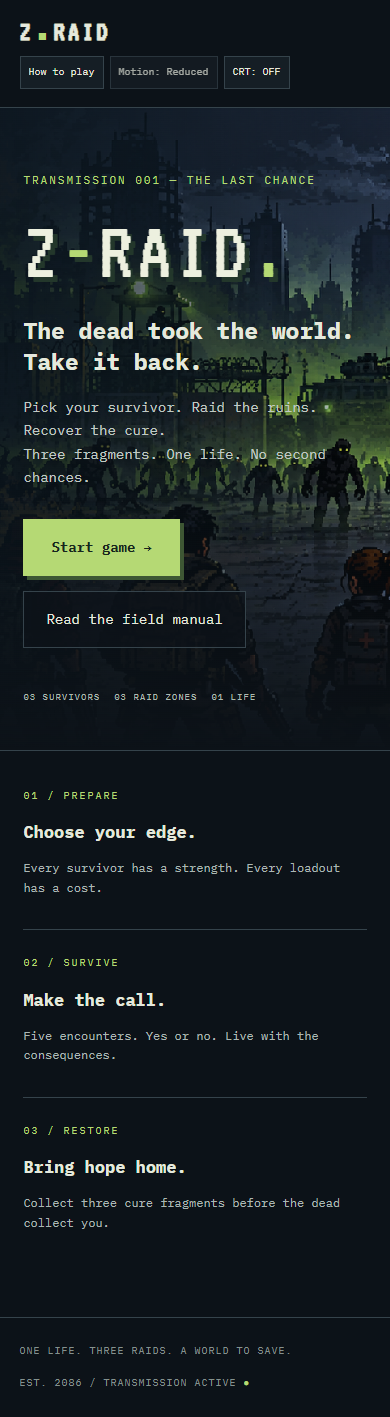
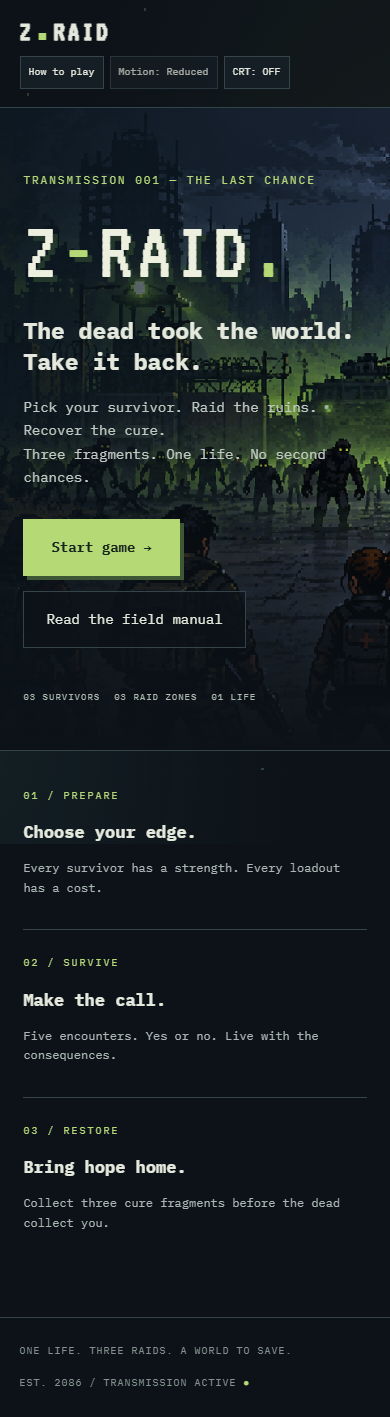
Make raid decisions build pursuit and add ambient pixel motion

diff --git a/game.js b/game.js
@@ -2,6 +2,15 @@
   'use strict';
   const C=ZContent,R=ZRules,app=document.querySelector('#app');let state=R.fresh();
   const stats=['combat','stealth','scavenging'];
+  const pursuitHint=choice=>choice.noise>0?'Loud route — draws pursuit':choice.noise<0?'Quiet route — breaks the trail':'Steady route — holds pursuit';
+  // Deterministic pixel motes stay outside the screen renderer and never consume
+  // gameplay RNG. Only transforms and opacity animate, keeping mobile cost low.
+  const ambient=document.querySelector('#ambient');
+  for(let i=0;i<22;i++){
+    const mote=document.createElement('span');mote.className='mote';
+    mote.style.cssText=`--x:${(i*43+7)%100}%;--y:${(i*29+11)%100}%;--duration:${18+i%7*3}s;--delay:-${i*2.7}s`;
+    ambient.appendChild(mote);
+  }
   // Original SVG pixel sprites use integer rectangles, no external asset requests.
   function art(id,cls='') {
     let p='',color='#b5d974';const rect=(x,y,w,h,c)=>p+=`<rect x="${x}" y="${y}" width="${w}" height="${h}" fill="${c}"/>`;
@@ -23,16 +32,16 @@
   const label=s=>s[0].toUpperCase()+s.slice(1);
   const btn=(text,action,cls='primary')=>`<button class="${cls}" data-action="${action}">${text}</button>`;
   const progress=()=>`<div class="fragments">${[1,2,3].map(n=>`<span class="${state.completed>=n?'filled':''}">${art('fragment')}<small>0${n}</small></span>`).join('')}</div>`;
-  function hud(){const c=R.item('characters',state.character);return `<div class="hud"><div>${art(c.id)}<div><b>${c.name}</b><span>HEALTH ${state.hp} / ${c.health}</span><meter min="0" max="${c.health}" value="${state.hp}" aria-label="Health"></meter></div></div><div><span>CURE FORMULA</span><b>${state.completed} / 3 fragments</b></div><div><span>RAID ${state.completed+1} / 3</span><b>${['Rising threat','High threat','Critical threat'][Math.min(2,state.completed)]}</b></div><div><span>SUPPLIES</span><b>${state.supplies}</b></div></div>`;}
+  function hud(){const c=R.item('characters',state.character);return `<div class="hud"><div>${art(c.id)}<div><b>${c.name}</b><span>HEALTH ${state.hp} / ${c.health}</span><meter min="0" max="${c.health}" value="${state.hp}" aria-label="Health"></meter></div></div><div><span>CURE FORMULA</span><b>${state.completed} / 3 fragments</b></div><div><span>RAID ${state.completed+1} / 3</span><b>${['Rising threat','High threat','Critical threat'][Math.min(2,state.completed)]}</b></div><div><span>SUPPLIES</span><b>${state.supplies}</b></div><div class="pursuit-tracker"><span>PURSUIT</span><b>${state.pressure<=1?'Quiet':state.pressure<=4?'Stirring':'Hunted'} · ${state.pressure} / 8</b></div></div>`;}
   function card(x,type,selected){return `<button class="choice ${selected===x.id?'selected':''}" data-choice="${type}" data-id="${x.id}" aria-pressed="${selected===x.id}">${art(x.id)}<div><small>${x.role||x.label||`TIER ${state.tier+1}`}</small><h3>${x.name}</h3><p>${x.description}</p>${x.health?`<div class="tags">${x.health} HP · C ${x.combat} / S ${x.stealth} / SC ${x.scavenging}</div>`:x.bonuses?`<div class="tags">${stats.filter(s=>x.bonuses[s]||x.specialty===s&&state.tier).map(s=>{const v=(x.bonuses[s]||0)+(x.specialty===s?state.tier:0);return `${label(s)} ${v>=0?'+':''}${v}`;}).join(' · ')}</div>`:`<div class="tags">Hazards: C −${x.hazards.combat}% / S −${x.hazards.stealth}% / SC −${x.hazards.scavenging}%</div>`}</div><span class="selector">${selected===x.id?'✓':'+'}</span></button>`;}
   function render(){
     let html='';const s=state;
     if(s.phase==='title')html=`<section class="hero"><div class="hero-shade"></div><div class="hero-copy"><span class="eyebrow">TRANSMISSION 001 — THE LAST CHANCE</span><h1>Z<span>-</span>RAID<span class="dot">.</span></h1><h2>The dead took the world.<br>Take it back.</h2><p>Pick your survivor. Raid the ruins. Recover the cure.<br>Three fragments. One life. No second chances.</p><div class="actions">${btn('Start game →','new')}${btn('Read the field manual','help','secondary')}</div><div class="hero-facts"><span>03 SURVIVORS</span><span>03 RAID ZONES</span><span>01 LIFE</span></div></div><div class="hero-note"><span class="live">● SIGNAL DETECTED</span><p>“Do you think you can save the world?”</p></div></section><div class="intro-grid"><article><small>01 / PREPARE</small><h3>Choose your edge.</h3><p>Every survivor has a strength. Every loadout has a cost.</p></article><article><small>02 / SURVIVE</small><h3>Make the call.</h3><p>Five encounters. Yes or no. Live with the consequences.</p></article><article><small>03 / RESTORE</small><h3>Bring hope home.</h3><p>Collect three cure fragments before the dead collect you.</p></article></div>`;
     else if(s.phase==='characters')html=`<section class="page"><span class="eyebrow">01 / YOUR LAST SURVIVOR</span><h1>Who goes into the dark?</h1><p class="lead">This choice stays with you for the entire run.</p><div class="character-grid">${C.characters.map(c=>card(c,'character','')).join('')}</div><div class="notice">Combat: fight & breach · Stealth: hide & navigate · Scavenging: search & repair</div></section>`;
-    else if(s.phase==='prepare')html=`<section class="page">${hud()}<span class="eyebrow">PREPARATION / RAID ${s.completed+1}</span><h1>Gear up. Get out. Get back.</h1><p class="lead">Choose your route and the tools that might keep you alive.</p><h2><span class="number">01</span> Raid location</h2><div class="location-grid">${C.locations.map(l=>card(l,'location',s.location)).join('')}</div><div class="equipment-grid"><section><h2><span class="number">02</span> Weapon</h2>${C.weapons.map(w=>card(w,'weapon',s.weapon)).join('')}</section><section><h2><span class="number">03</span> Gear</h2>${C.gear.map(g=>card(g,'gear',s.gear)).join('')}</section></div><div class="launch"><div><span class="eyebrow">EFFECTIVE CHECK STATS</span><p>${stats.map(t=>`${label(t)} <b>${R.item('characters',s.character)[t]+R.bonuses(s,t)}</b>`).join(' &nbsp; / &nbsp; ')}</p><small>Tier ${s.tier+1} equipment · ${s.completed*9}% difficulty penalty · health persists</small></div>${btn('Begin raid →','raid')}</div></section>`;
+    else if(s.phase==='prepare')html=`<section class="page">${hud()}<span class="eyebrow">PREPARATION / RAID ${s.completed+1}</span><h1>Gear up. Get out. Get back.</h1><p class="lead">Choose your route and the tools that might keep you alive.</p><h2><span class="number">01</span> Raid location</h2><div class="location-grid">${C.locations.map(l=>card(l,'location',s.location)).join('')}</div><div class="equipment-grid"><section><h2><span class="number">02</span> Weapon</h2>${C.weapons.map(w=>card(w,'weapon',s.weapon)).join('')}</section><section><h2><span class="number">03</span> Gear</h2>${C.gear.map(g=>card(g,'gear',s.gear)).join('')}</section></div><div class="launch"><div><span class="eyebrow">EFFECTIVE CHECK STATS</span><p>${stats.map(t=>`${label(t)} <b>${R.item('characters',s.character)[t]+R.bonuses(s,t)}</b>`).join(' &nbsp; / &nbsp; ')}</p><small>Tier ${s.tier+1} equipment · ${s.completed*10}% difficulty penalty · health persists</small></div>${btn('Begin raid →','raid')}</div></section>`;
     else if(['raid','outcome'].includes(s.phase)){
-      const l=R.item('locations',s.location),e=s.encounters[s.index];html=`<section class="page">${hud()}<div class="raid-layout"><aside class="raid-sidebar">${art(l.id,'scene')}<span class="eyebrow">${l.label}</span><h2>${l.name}</h2><p>${l.description}</p><hr><small>YOUR LOADOUT</small><p>${R.item('weapons',s.weapon).name}<br>${R.item('gear',s.gear).name}<br>Tier ${s.tier+1}</p><hr><small>RAID PROGRESS</small><div class="steps">${[0,1,2,3,4].map(i=>`<span class="${i<=s.index?'active':''}">${i+1}</span>`).join('')}</div></aside><article class="encounter"><span class="eyebrow">ENCOUNTER ${s.index+1} / 5 — STAY ALIVE</span>${art('zombie','enemy')}<h1>${e.question}</h1>${s.phase==='raid'?`<p class="lead">Make your call. Both routes carry risk.</p><div class="decision-grid">${['yes','no'].map(a=>{const x=e[a];return `<button class="decision" data-action="${a}"><strong>${label(a)} <span>→</span></strong><b>${x.action}</b><small>Success: +${x.supplies+(R.item('gear',s.gear).supplies||0)} supplies${x.heal||R.item('gear',s.gear).healing?`, up to +${x.heal+(R.item('gear',s.gear).healing||0)+(R.item('gear',s.gear).healing?s.tier:0)} HP`:''}<br>Failure: ${Math.max(1,x.damage+s.completed*4-(R.item('gear',s.gear).armor||0)-(R.item('gear',s.gear).armor?s.tier:0))} damage</small></button>`;}).join('')}</div><p class="odds-note">Trust your survivor and your gear. Neither route guarantees survival.</p>`:`<div class="outcome ${s.last.success?'good':'bad'}" role="status"><span class="eyebrow">${s.last.success?'✓ CHECK SUCCEEDED':'✕ CHECK FAILED'}</span><h2>${s.last.action}</h2><p>${s.last.success?'You secure the route and recover useful supplies.':'The dead close in. You escape, but the mistake costs you.'}</p><p><b>${s.last.damage?`−${s.last.damage} health`:`+${s.last.supplies} supplies · +${s.last.healing} health`}</b></p></div>${btn(s.index===4?'Return to camp →':'Continue →','next')}`}</article></div></section>`;
-    } else if(s.phase==='summary')html=`<section class="result page">${art('fragment','result-art')}<span class="eyebrow">TRANSMISSION RECEIVED / RAID COMPLETE</span><h1>You made it back.</h1><p class="lead">One more piece of the cure. One less reason to give up.</p>${progress()}<div class="result-panel"><p><b>${s.completed} / 3 cure fragments recovered</b></p><p>Camp recovery: +${s.recovery} health. ${s.usedSupplies} supplies consumed.<br>Current health: ${s.hp} / ${R.item('characters',s.character).health}.</p><p>All weapons and gear upgraded to tier ${s.tier+1}.<br>Each gains +1 in its specialty. Next raid: −${s.completed*9}% odds and +${s.completed*4} base damage.</p></div>${btn('Prepare next raid →','prepare')}</section>`;
+      const l=R.item('locations',s.location),e=s.encounters[s.index];html=`<section class="page">${hud()}<div class="raid-layout"><aside class="raid-sidebar">${art(l.id,'scene')}<span class="eyebrow">${l.label}</span><h2>${l.name}</h2><p>${l.description}</p><hr><small>YOUR LOADOUT</small><p>${R.item('weapons',s.weapon).name}<br>${R.item('gear',s.gear).name}<br>Tier ${s.tier+1}</p><hr><small>RAID PROGRESS</small><div class="steps">${[0,1,2,3,4].map(i=>`<span class="${i<=s.index?'active':''}">${i+1}</span>`).join('')}</div></aside><article class="encounter"><span class="eyebrow">ENCOUNTER ${s.index+1} / 5 — STAY ALIVE</span>${art('zombie','enemy')}<h1>${e.question}</h1>${s.phase==='raid'?`<p class="lead">Make your call. Both routes carry risk.</p><div class="decision-grid">${['yes','no'].map(a=>{const x=e[a];return `<button class="decision" data-action="${a}"><strong>${label(a)} <span>→</span></strong><b>${x.action}</b><span class="pursuit">${pursuitHint(x)}</span><small>Success: +${x.supplies+(R.item('gear',s.gear).supplies||0)} supplies${x.heal||R.item('gear',s.gear).healing?`, up to +${x.heal+(R.item('gear',s.gear).healing||0)+(R.item('gear',s.gear).healing?s.tier:0)} HP`:''}<br>Failure: ${R.damage(s,x)} damage</small></button>`;}).join('')}</div><p class="odds-note">Trust your survivor and your gear. Neither route guarantees survival.</p>`:`<div class="outcome ${s.last.success?'good':'bad'}" role="status"><span class="eyebrow">${s.last.success?'✓ CHECK SUCCEEDED':'✕ CHECK FAILED'}</span><h2>${s.last.action}</h2><p>${s.last.success?'You secure the route and recover useful supplies.':'The dead close in. You escape, but the mistake costs you.'}</p><p><b>${s.last.damage?`−${s.last.damage} health`:`+${s.last.supplies} supplies · +${s.last.healing} health`}</b></p><p>${s.last.noiseChange>0?'The noise draws infected closer.':s.last.noiseChange<0?'You lose part of the pursuing horde.':'The horde keeps its distance.'} Pursuit: ${s.pressure} / 8.</p></div>${btn(s.index===4?'Return to camp →':'Continue →','next')}`}</article></div></section>`;
+    } else if(s.phase==='summary')html=`<section class="result page">${art('fragment','result-art')}<span class="eyebrow">TRANSMISSION RECEIVED / RAID COMPLETE</span><h1>You made it back.</h1><p class="lead">One more piece of the cure. One less reason to give up.</p>${progress()}<div class="result-panel"><p><b>${s.completed} / 3 cure fragments recovered</b></p><p>Camp recovery: +${s.recovery} health. ${s.usedSupplies} supplies consumed.<br>Current health: ${s.hp} / ${R.item('characters',s.character).health}.</p><p>All weapons and gear upgraded to tier ${s.tier+1}.<br>Each gains +1 in its specialty. Next raid: greater danger and +${s.completed*5} base damage. Pursuit cleared at camp.</p></div>${btn('Prepare next raid →','prepare')}</section>`;
     else if(s.phase==='death')html=`<section class="result page death">${art('zombie','result-art')}<span class="eyebrow">SIGNAL LOST / SURVIVOR DOWN</span><h1>The dark won this time.</h1><p class="lead">${R.item('characters',s.deathProgress.character).name} fell on raid ${s.deathProgress.completed+1}, encounter ${s.deathProgress.encounter}.</p><div class="result-panel"><h2>${s.deathProgress.completed} / 3 fragments recovered</h2><p>Final check: ${s.last.action}. Took ${s.last.damage} damage.</p><p>Your cure fragments, equipment upgrades and raid progress are lost. A new survivor starts from zero.</p></div>${btn('New run →','new')}</section>`;
     else if(s.phase==='victory')html=`<section class="result page">${art('victory','result-art')}<span class="eyebrow">FORMULA COMPLETE / HOPE RESTORED</span><h1>The world gets another day.</h1><p class="lead">${R.item('characters',s.character).name} survived all fifteen encounters.<br>Three fragments. One cure. A future worth fighting for.</p>${progress()}<div class="result-panel"><h2>✓ Cure assembled</h2><p>The first batch leaves camp at dawn. Somewhere beyond the barricades, the world begins to heal.</p><p>Final health: ${s.hp}. All three raids completed.</p></div>${btn('Play again →','new')}</section>`;
     app.innerHTML=html;app.focus({preventScroll:true});

diff --git a/engine.js b/engine.js
@@ -2,23 +2,29 @@
 window.ZRules = (() => {
   const C = window.ZContent;
   const item = (type,id) => C[type].find(x=>x.id===id);
-  const fresh = () => ({character:null,location:'pharmacy',weapon:'bat',gear:'vest',hp:0,completed:0,tier:0,supplies:0,encounters:[],index:0,phase:'title',last:null});
+  const fresh = () => ({character:null,location:'pharmacy',weapon:'bat',gear:'vest',hp:0,completed:0,tier:0,supplies:0,pressure:0,encounters:[],index:0,phase:'title',last:null});
   function bonuses(s,stat) { return ['weapons','gear'].reduce((sum,type)=> { const it=item(type,type==='weapons'?s.weapon:s.gear); return sum+(it.bonuses[stat]||0)+(it.specialty===stat?s.tier:0); },0); }
-  // A stat point and equipment point each add five percentage points. Each later
-  // raid costs nine points; specialty upgrades counteract only part of that cost.
-  function chance(s,choice) { const c=item('characters',s.character),l=item('locations',s.location);return Math.max(10,Math.min(90,choice.base+c[choice.stat]*5+bonuses(s,choice.stat)*5+Math.min(3,s.supplies)-l.hazards[choice.stat]-s.completed*9)); }
+  // Four points per stat and five per equipment point; upgrades offset the
+  // ten-point raid penalty. Existing pursuit costs two points per level.
+  // These odds stay internal. Players see actions and qualitative consequences.
+  function chance(s,choice) { const c=item('characters',s.character),l=item('locations',s.location);return Math.max(10,Math.min(85,choice.base+c[choice.stat]*4+bonuses(s,choice.stat)*5+Math.min(2,s.supplies)-l.hazards[choice.stat]-s.completed*10-s.pressure*2-s.index)); }
+  function damage(s,choice) {const g=item('gear',s.gear);return Math.max(1,choice.damage+s.completed*5+Math.floor(s.pressure/2)-(g.armor||0)-(g.armor?s.tier:0));}
+  const recovery = s => 8+Math.min(6,s.supplies)*2;
   function selectCharacter(s,id) { if(s.phase!=='characters')return false; const c=item('characters',id);if(!c)return false;s.character=id;s.hp=c.health;s.phase='prepare';return true; }
-  function startRaid(s,rng=Math.random) {if(s.phase!=='prepare')return false;const pool=[...item('locations',s.location).encounters];for(let i=pool.length-1;i>0;i--){const j=Math.floor(rng()*(i+1));[pool[i],pool[j]]=[pool[j],pool[i]];}s.encounters=pool.slice(0,5);s.index=0;s.phase='raid';s.last=null;return true;}
+  function startRaid(s,rng=Math.random) {if(s.phase!=='prepare')return false;const pool=[...item('locations',s.location).encounters];for(let i=pool.length-1;i>0;i--){const j=Math.floor(rng()*(i+1));[pool[i],pool[j]]=[pool[j],pool[i]];}s.encounters=pool.slice(0,5);s.index=0;s.pressure=0;s.phase='raid';s.last=null;return true;}
   function resolve(s,answer,rng=Math.random) {
     if(s.phase!=='raid'||!['yes','no'].includes(answer))return null;
     const a=s.encounters[s.index][answer],odds=chance(s,a),roll=rng()*100,success=roll<odds,g=item('gear',s.gear),max=item('characters',s.character).health;
-    const damage=success?0:Math.max(1,a.damage+s.completed*4-(g.armor||0)-(g.armor?s.tier:0));
+    const injury=success?0:damage(s,a);
     const healing=success?Math.min(max-s.hp,a.heal+(g.healing||0)+(g.healing?s.tier:0)):0;
     const supplies=success?a.supplies+(g.supplies||0):0;
-    s.hp=Math.max(0,Math.min(max,s.hp-damage+healing));s.supplies+=supplies;
-    s.last={success,odds,roll,damage,healing,supplies,action:a.action};
+    s.hp=Math.max(0,Math.min(max,s.hp-injury+healing));s.supplies+=supplies;
+    const before=s.pressure;
+    // Quiet actions still help on a failure, but the mishap attracts one level.
+    s.pressure=Math.max(0,Math.min(8,s.pressure+(a.noise||0)+(success?0:1)));
+    s.last={success,odds,roll,damage:injury,healing,supplies,action:a.action,noiseChange:s.pressure-before};
     s.phase=s.hp===0?'death':'outcome';
-    if(s.phase==='death'){s.deathProgress={completed:s.completed,encounter:s.index+1,character:s.character};s.completed=0;s.tier=0;s.supplies=0;}
+    if(s.phase==='death'){s.deathProgress={completed:s.completed,encounter:s.index+1,character:s.character};s.completed=0;s.tier=0;s.supplies=0;s.pressure=0;}
     return s.last;
   }
   function next(s) {
@@ -26,8 +32,8 @@ window.ZRules = (() => {
     if(s.index<4){s.index++;s.phase='raid';return true;}
     // Only this transition grants fragments. Phase guards prevent duplicate rewards.
     s.completed++;s.tier=s.completed;
-    const max=item('characters',s.character).health,recovery=Math.min(max-s.hp,12+Math.min(10,s.supplies)*2);
-    s.hp+=recovery;s.recovery=recovery;s.usedSupplies=s.supplies;s.supplies=0;s.phase=s.completed===3?'victory':'summary';return true;
+    const max=item('characters',s.character).health,healed=Math.min(max-s.hp,recovery(s));
+    s.hp+=healed;s.recovery=healed;s.usedSupplies=s.supplies;s.supplies=0;s.pressure=0;s.phase=s.completed===3?'victory':'summary';return true;
   }
-  return {fresh,item,bonuses,chance,selectCharacter,startRaid,resolve,next};
+  return {fresh,item,bonuses,chance,damage,recovery,selectCharacter,startRaid,resolve,next};
 })();

diff --git a/index.html b/index.html
@@ -1,3 +1,3 @@
 <!doctype html>
 <html lang="en"><head><meta charset="utf-8"><meta name="viewport" content="width=device-width,initial-scale=1"><meta name="theme-color" content="#0c1218"><meta name="description" content="Z-Raid: three raids, one life, one chance to cure the world."><title>Z-Raid — One life. Three raids.</title><link rel="icon" type="image/svg+xml" href="assets/favicon.svg"><link rel="stylesheet" href="styles.css"></head>
-<body><header><a href="./" class="brand" aria-label="Z-Raid home">Z<span>■</span>RAID</a><div class="header-right"><span class="live">● OFFLINE SURVIVAL PROTOCOL</span><button id="help" class="small">How to play</button><button id="motion" class="small" aria-pressed="true" aria-label="Toggle menu motion">Motion: ON</button><button id="crt" class="small" aria-pressed="false">CRT: OFF</button></div></header><main id="app" tabindex="-1"></main><footer><span>ONE LIFE. THREE RAIDS. A WORLD TO SAVE.</span><span>EST. 2086 / TRANSMISSION ACTIVE <i>●</i></span></footer><dialog id="instructions"><button id="close-help" class="small">Close ×</button><h2>Survival field manual</h2><p>Choose a survivor for your entire run. Select a location, weapon and gear before every raid. Survive five Yes/No encounters to recover one cure fragment. Three fragments save the world.</p><p><b>Combat</b> helps you fight and force entry. <b>Stealth</b> helps you hide and navigate. <b>Scavenging</b> helps you recover supplies. Items modify these checks; drawbacks matter.</p><p>Encounter outcomes depend on your survivor, equipment, supplies, location hazards and raid difficulty. Checks are rolled behind the scenes. Stronger stats help, but never guarantee survival.</p><p>Supplies add morale and are consumed at camp: recover 12 health plus 2 per supply (maximum 10 supplies), capped at maximum health. Every successful raid upgrades all eight items by +1 in their specialty, while hazards grow faster. Health carries through encounters. Zero health ends your run immediately and clears progress.</p><p>Use Tab and Enter/Space, a mouse, or touch. Both Yes and No describe an action and have risks. CRT is optional. Runs are not saved when you close or reload.</p></dialog><script src="content.js"></script><script src="engine.js"></script><script src="game.js"></script></body></html>
+<body><div id="ambient" class="ambient" aria-hidden="true"></div><header><a href="./" class="brand" aria-label="Z-Raid home">Z<span>■</span>RAID</a><div class="header-right"><span class="live">● OFFLINE SURVIVAL PROTOCOL</span><button id="help" class="small">How to play</button><button id="motion" class="small" aria-pressed="true" aria-label="Toggle menu motion">Motion: ON</button><button id="crt" class="small" aria-pressed="false">CRT: OFF</button></div></header><main id="app" tabindex="-1"></main><footer><span>ONE LIFE. THREE RAIDS. A WORLD TO SAVE.</span><span>EST. 2086 / TRANSMISSION ACTIVE <i>●</i></span></footer><dialog id="instructions"><button id="close-help" class="small">Close ×</button><h2>Survival field manual</h2><p>Choose a survivor for your entire run. Select a location, weapon and gear before every raid. Survive five Yes/No encounters to recover one cure fragment. Three fragments save the world.</p><p><b>Combat</b> helps you fight and force entry. <b>Stealth</b> helps you hide and navigate. <b>Scavenging</b> helps you recover supplies. Items modify these checks; drawbacks matter.</p><p>Encounter outcomes depend on your survivor, equipment, supplies, location hazards and raid difficulty. Checks are rolled behind the scenes. Stronger stats help, but never guarantee survival. Loud routes raise pursuit even on success; quiet routes lower it. Failures also attract infected. Higher pursuit makes later encounters more dangerous. Pursuit clears at camp.</p><p>Supplies add morale and are consumed at camp: recover 8 health plus 2 per supply (maximum 6 supplies), capped at maximum health. Every successful raid upgrades all eight items by +1 in their specialty, while hazards grow faster. Health carries through encounters. Zero health ends your run immediately and clears progress.</p><p>Use Tab and Enter/Space, a mouse, or touch. Both Yes and No describe an action and have risks. CRT is optional. Runs are not saved when you close or reload.</p></dialog><script src="content.js"></script><script src="engine.js"></script><script src="game.js"></script></body></html>

diff --git a/styles.css b/styles.css
@@ -30,3 +30,19 @@ body.motion-off button,body.motion-off .intro-grid article{transition:none}
 button:disabled{cursor:default;opacity:.7}
 @media(max-width:650px){header{flex-wrap:wrap;gap:10px}.header-right{flex-wrap:wrap}.header-right .small{padding:7px 8px}}
 @media(prefers-reduced-motion:reduce){.hero{background-image:linear-gradient(90deg,#0b151de0,#0b151d36),url('assets/title.png')}.hero::after{display:none}}
+
+/* Ambient quarantine atmosphere on every screen, independent of CRT scanlines. */
+body{isolation:isolate}
+body>header,body>main,body>footer{position:relative;z-index:1}
+.ambient{position:fixed;inset:0;z-index:0;overflow:hidden;pointer-events:none;contain:strict}
+.ambient::before{content:'';position:absolute;inset:-20%;background:radial-gradient(ellipse at 12% 75%,#77c9c51b,transparent 45%),radial-gradient(ellipse at 88% 35%,#b5d97414,transparent 48%);opacity:.7}
+.ambient::after{content:'';position:absolute;inset:0;background:linear-gradient(#77c9c506 1px,transparent 1px),linear-gradient(90deg,#77c9c506 1px,transparent 1px);background-size:48px 48px;mask-image:linear-gradient(transparent,#000,transparent)}
+.mote{position:absolute;left:var(--x);top:var(--y);height:3px;width:2px;background:#8aae7c;opacity:.25;box-shadow:0 0 5px #b5d97428}
+.mote:nth-child(3n){height:2px;width:3px;background:#77c9c5}
+.hud{grid-template-columns:1.8fr 1.4fr 1.4fr .8fr 1.2fr}
+.pursuit{display:block;color:var(--green);font-size:10px;line-height:1.6}
+.pursuit-tracker b{color:#deaa67}
+@media(prefers-reduced-motion:no-preference){body:not(.motion-off) .ambient::before{animation:quarantine-fog 22s ease-in-out infinite}body:not(.motion-off) .mote{animation:pixel-drift var(--duration) linear var(--delay) infinite}}
+@keyframes quarantine-fog{0%,100%{transform:translate(-3%,2%);opacity:.5}50%{transform:translate(4%,-3%);opacity:.9}}
+@keyframes pixel-drift{0%{transform:translate(0,60px);opacity:0}15%{opacity:.45}75%{opacity:.35}100%{transform:translate(35px,-160px);opacity:0}}
+@media(max-width:950px){.hud{grid-template-columns:1fr 1fr}.pursuit-tracker{grid-column:1/-1}.mote:nth-child(even){display:none}}

diff --git a/content.js b/content.js
@@ -61,6 +61,14 @@ window.ZContent = (() => {
     {id:'metro',name:'Hollow Metro',label:'UNDERGROUND',description:'Dark tunnels, sleeping hordes and flooded tracks.',hazards:{combat:5,stealth:6,scavenging:1},color:'#77c9c5'},
     {id:'checkpoint',name:'Checkpoint 09',label:'QUARANTINE ZONE',description:'Armored infected, surveillance and military salvage.',hazards:{combat:6,stealth:2,scavenging:4},color:'#deaa67'}
   ];
-  locations.forEach(l => l.encounters = pools[l.id].map((r,i) => ({id:l.id+i,question:r[0],yes:{action:r[1],stat:r[2],base:r[5],damage:r[7]+10,supplies:2+(i%2),heal:i%3===0?4:0},no:{action:r[3],stat:r[4],base:r[6],damage:r[8]+10,supplies:1+(i%2),heal:i%3===1?5:0}})));
+  // Pursuit is a lasting consequence of each route, even when its check succeeds.
+  // Positive values attract infected; negative values shake them off. Neither
+  // Yes nor No always means loud or quiet: the actual action determines it.
+  const pursuit = {
+    pharmacy:[[3,-1],[2,-2],[3,-1],[0,1],[1,2],[3,0],[2,-2],[-1,1],[2,3],[3,-1]],
+    metro:[[-2,3],[3,1],[2,-1],[3,-2],[1,-1],[3,-2],[-1,1],[2,0],[3,-1],[-2,1]],
+    checkpoint:[[3,-2],[1,-1],[3,1],[-2,3],[2,3],[-2,1],[4,-2],[1,-1],[3,-2],[2,3]]
+  };
+  locations.forEach(l => l.encounters = pools[l.id].map((r,i) => ({id:l.id+i,question:r[0],yes:{action:r[1],stat:r[2],base:r[5],damage:r[7]+10,supplies:2+(i%2),heal:i%3===0?4:0,noise:pursuit[l.id][i][0]},no:{action:r[3],stat:r[4],base:r[6],damage:r[8]+10,supplies:1+(i%2),heal:i%3===1?5:0,noise:pursuit[l.id][i][1]}})));
   return {characters,weapons,gear,locations};
 })();

diff --git a/DEVELOPMENT.md b/DEVELOPMENT.md
@@ -11,13 +11,14 @@ Use mouse, touch, or Tab and Enter/Space. Start Game → choose one of three sur
 ## Rules and balance
 
 - Combat handles fighting and force; stealth handles concealment and navigation; scavenging handles searching and repairs.
-- Check odds = base + character stat × 5 + equipment bonus × 5 + min(3, supplies) − location hazard − completed raids × 9, clamped to 10–90%. A uniform random roll below those odds succeeds.
+- Internal check odds = base + character stat × 4 + equipment bonus × 5 + min(2, supplies) − location hazard − completed raids × 10 − pursuit × 2 − encounter index, clamped to 10–85%. A uniform random roll below those odds succeeds. Check odds and rolls are hidden from players.
 - Each location has 10 encounters. Fisher–Yates shuffle draws 5 without replacement per raid. Both responses use independent checks and rewards. No is never a guaranteed safe escape.
-- Failure costs the shown damage, plus 4 per completed raid, less vest armor. Successful checks award supplies and sometimes healing. Medical kits add healing; field packs add supplies. All health changes are capped. Zero health causes immediate death.
-- Camp restores 12 + 2 × min(10, supplies) health, capped at character maximum, and consumes all supplies. Supplies also add up to 3 percentage points of morale during the raid.
+- Every route has an authored pursuit consequence, from −2 to +4. This applies on success as well as failure; a failed check adds one extra pursuit. Pursuit stays between 0 and 8. Loud and quiet actions appear under both Yes and No, so neither answer is always the quiet route. Players see route hints, the pursuit tracker and the result. Later decisions inherit the consequences of earlier ones.
+- Failure costs the displayed damage: encounter base + 5 per completed raid + floor(pursuit / 2) − vest armor (including upgrades). Successful checks award supplies and sometimes healing. Medical kits add healing; field packs add supplies. All health changes are capped. Zero health causes immediate death.
+- Camp restores 8 + 2 × min(6, supplies) health (maximum 20), capped at character maximum, consumes all supplies and clears pursuit. Supplies add up to 2 percentage points of morale during the raid. Pursuit also starts at zero each raid.
 - Every success upgrades the existing four weapons and four gear items by +1 in their specialty. Vest armor and kit healing also gain +1. No new item types are added. Difficulty still rises; upgrades are most useful for specialized checks.
 - Death clears fragments, upgrade tier and supplies immediately. New Run recreates the whole run state, including selections, health and encounter progress. Reloading also starts fresh; there is no saved run.
-- The odds do not guarantee survival. A plausible strategy is to pair complementary equipment, consider both failure damage and odds, and collect supplies for camp recovery.
+- No strategy guarantees survival. Pair complementary equipment, consider the action and its failure damage, and balance supply collection against attracting the horde. Even a successful loud route can make subsequent encounters harder.
 
 ## Static hosting / Cloudflare Pages
 
@@ -34,11 +35,15 @@ Upload `index.html`, `styles.css`, `content.js`, `engine.js`, `game.js`, and `as
 - `assets/title-loop.gif`: 48-frame, six-second infinite loop of the title art with animated ground fog, rain/ash and slowly pulsing lights (960 × 384, about 1.9 MB). `tools/animate_hero.py` reproduces it with Pillow. No runtime dependency is required.
 - The title menu also has gentle ambient glow, signal breathing, and hover/focus movement. The header's Motion toggle persists your preference locally. Turning it off or enabling reduced motion loads the original still PNG and disables these animations. CRT remains a separate setting.
 - `motion-check.cjs`: development browser verification for animation, hover, motion controls and mobile layout.
-- `verify.cjs`: dependency-free rule verification and seeded balance simulation. Run `node verify.cjs`.
+- `verify.cjs`: dependency-free rule verification. Run `node verify.cjs`.
+- `balance.cjs`: compare fixed Yes, fixed No, random and informed choices across all 48 loadouts and rotating locations. Run `node balance.cjs 600` for 115,200 seeded runs. The informed policy sees internal odds and estimates immediate health, rewards and future pursuit cost; it is an idealized benchmark, not a prediction of human win rates.
+- A fixed ambient layer adds drifting pixel motes, slow teal/green fog and a faint quarantine grid behind every screen. It does not use gameplay RNG, intercept input, or depend on CRT. Motion OFF and reduced motion disable its animations.
 
 ## Verification results
 
-All 144 character/location/weapon/gear combinations passed rule checks, including probability bounds, unique draws, upgrades, fragments only on living raid completion, rising difficulty, immediate death, reset, third-raid victory, and duplicate-action guards. A seeded 16,800-run simulation with informed decisions and rotating locations won about 76% overall (54–93% across loadouts). The initial 97% result prompted an increase in failure damage. This is an initial balance estimate, not a substitute for player feedback.
+All 144 character/location/weapon/gear combinations passed rule checks, including probability bounds at different pursuit levels, unique draws, upgrades, fragments only on living raid completion, rising difficulty, immediate death, reset, third-raid victory, and duplicate-action guards. Targeted checks verify that successful loud actions increase pursuit and worsen later checks/damage, quiet actions reduce it, pressure is capped and resets, camp recovery caps at 20, and both answers include loud and quiet routes.
+
+The previous balance won about 52% with all-Yes and 76% with informed choices. After pursuit, reduced recovery and tougher checks, a 115,200-run comparison produced average win rates of **8.3% all-Yes, 15.4% all-No, 10.6% random, and 31.8% informed**. Informed results ranged from 10–55% across loadouts; every loadout remained able to win. Fixed-answer strategies can still win through luck; adapting choices is substantially more effective. These are simulation estimates, not a substitute for player feedback.
 
 Headless Edge verified the actual desktop and 390px mobile interface: loadout changes, all 15 encounter transitions, victory, death, fresh run, dialog and keyboard controls, no horizontal overflow and no JavaScript errors. Preview screenshots are in `assets/preview-*.png`. `browser-check.cjs` is the development browser check and uses this workstation's bundled Playwright; for another machine, replace its require path with an installed Playwright package. The game itself has no package dependency.
 

diff --git a/README.md b/README.md
@@ -25,13 +25,15 @@ An 8-bit, text-based survival game where every Yes or No could be your last.
 **Four weapons. Four gear items. Thirty encounters. One life.**<br>
 Collect supplies, recover at camp, and adapt your loadout between raids. Die, and the run is over.
 
+Loud actions attract a pursuing horde even when they succeed. Quiet routes can shake it off. Pursuit carries into later encounters, making checks tougher and injuries worse. Watch the pursuit tracker and weigh your supplies against the noise; neither Yes nor No is always the quiet option. Camp recovery is limited to 20 health.
+
 The stat checks, success percentages, and random rolls stay hidden; the probability system still runs behind the scenes.
 
 ### 🕹 Before you head out
 
 - Play with mouse, touch, or **Tab + Enter/Space**.
 - Combat, stealth, scavenging, and equipment shape your chances. Good odds still aren't a guarantee.
-- The menu has a looping animated backdrop and subtle hover effects. Toggle **Motion** to pause animation, **CRT** for scanlines, or open **How to play** for the field manual. Reduced-motion settings use a still backdrop.
+- The menu has a looping animated backdrop and subtle hover effects. Pixel motes and drifting quarantine fog animate behind every game screen. Toggle **Motion** to pause animation, **CRT** for scanlines, or open **How to play** for the field manual. Reduced-motion settings use a still backdrop and stop ambient animation.
 - Runs aren't saved. Refreshing starts you over.
 
 ## ⚙ Under the hood
